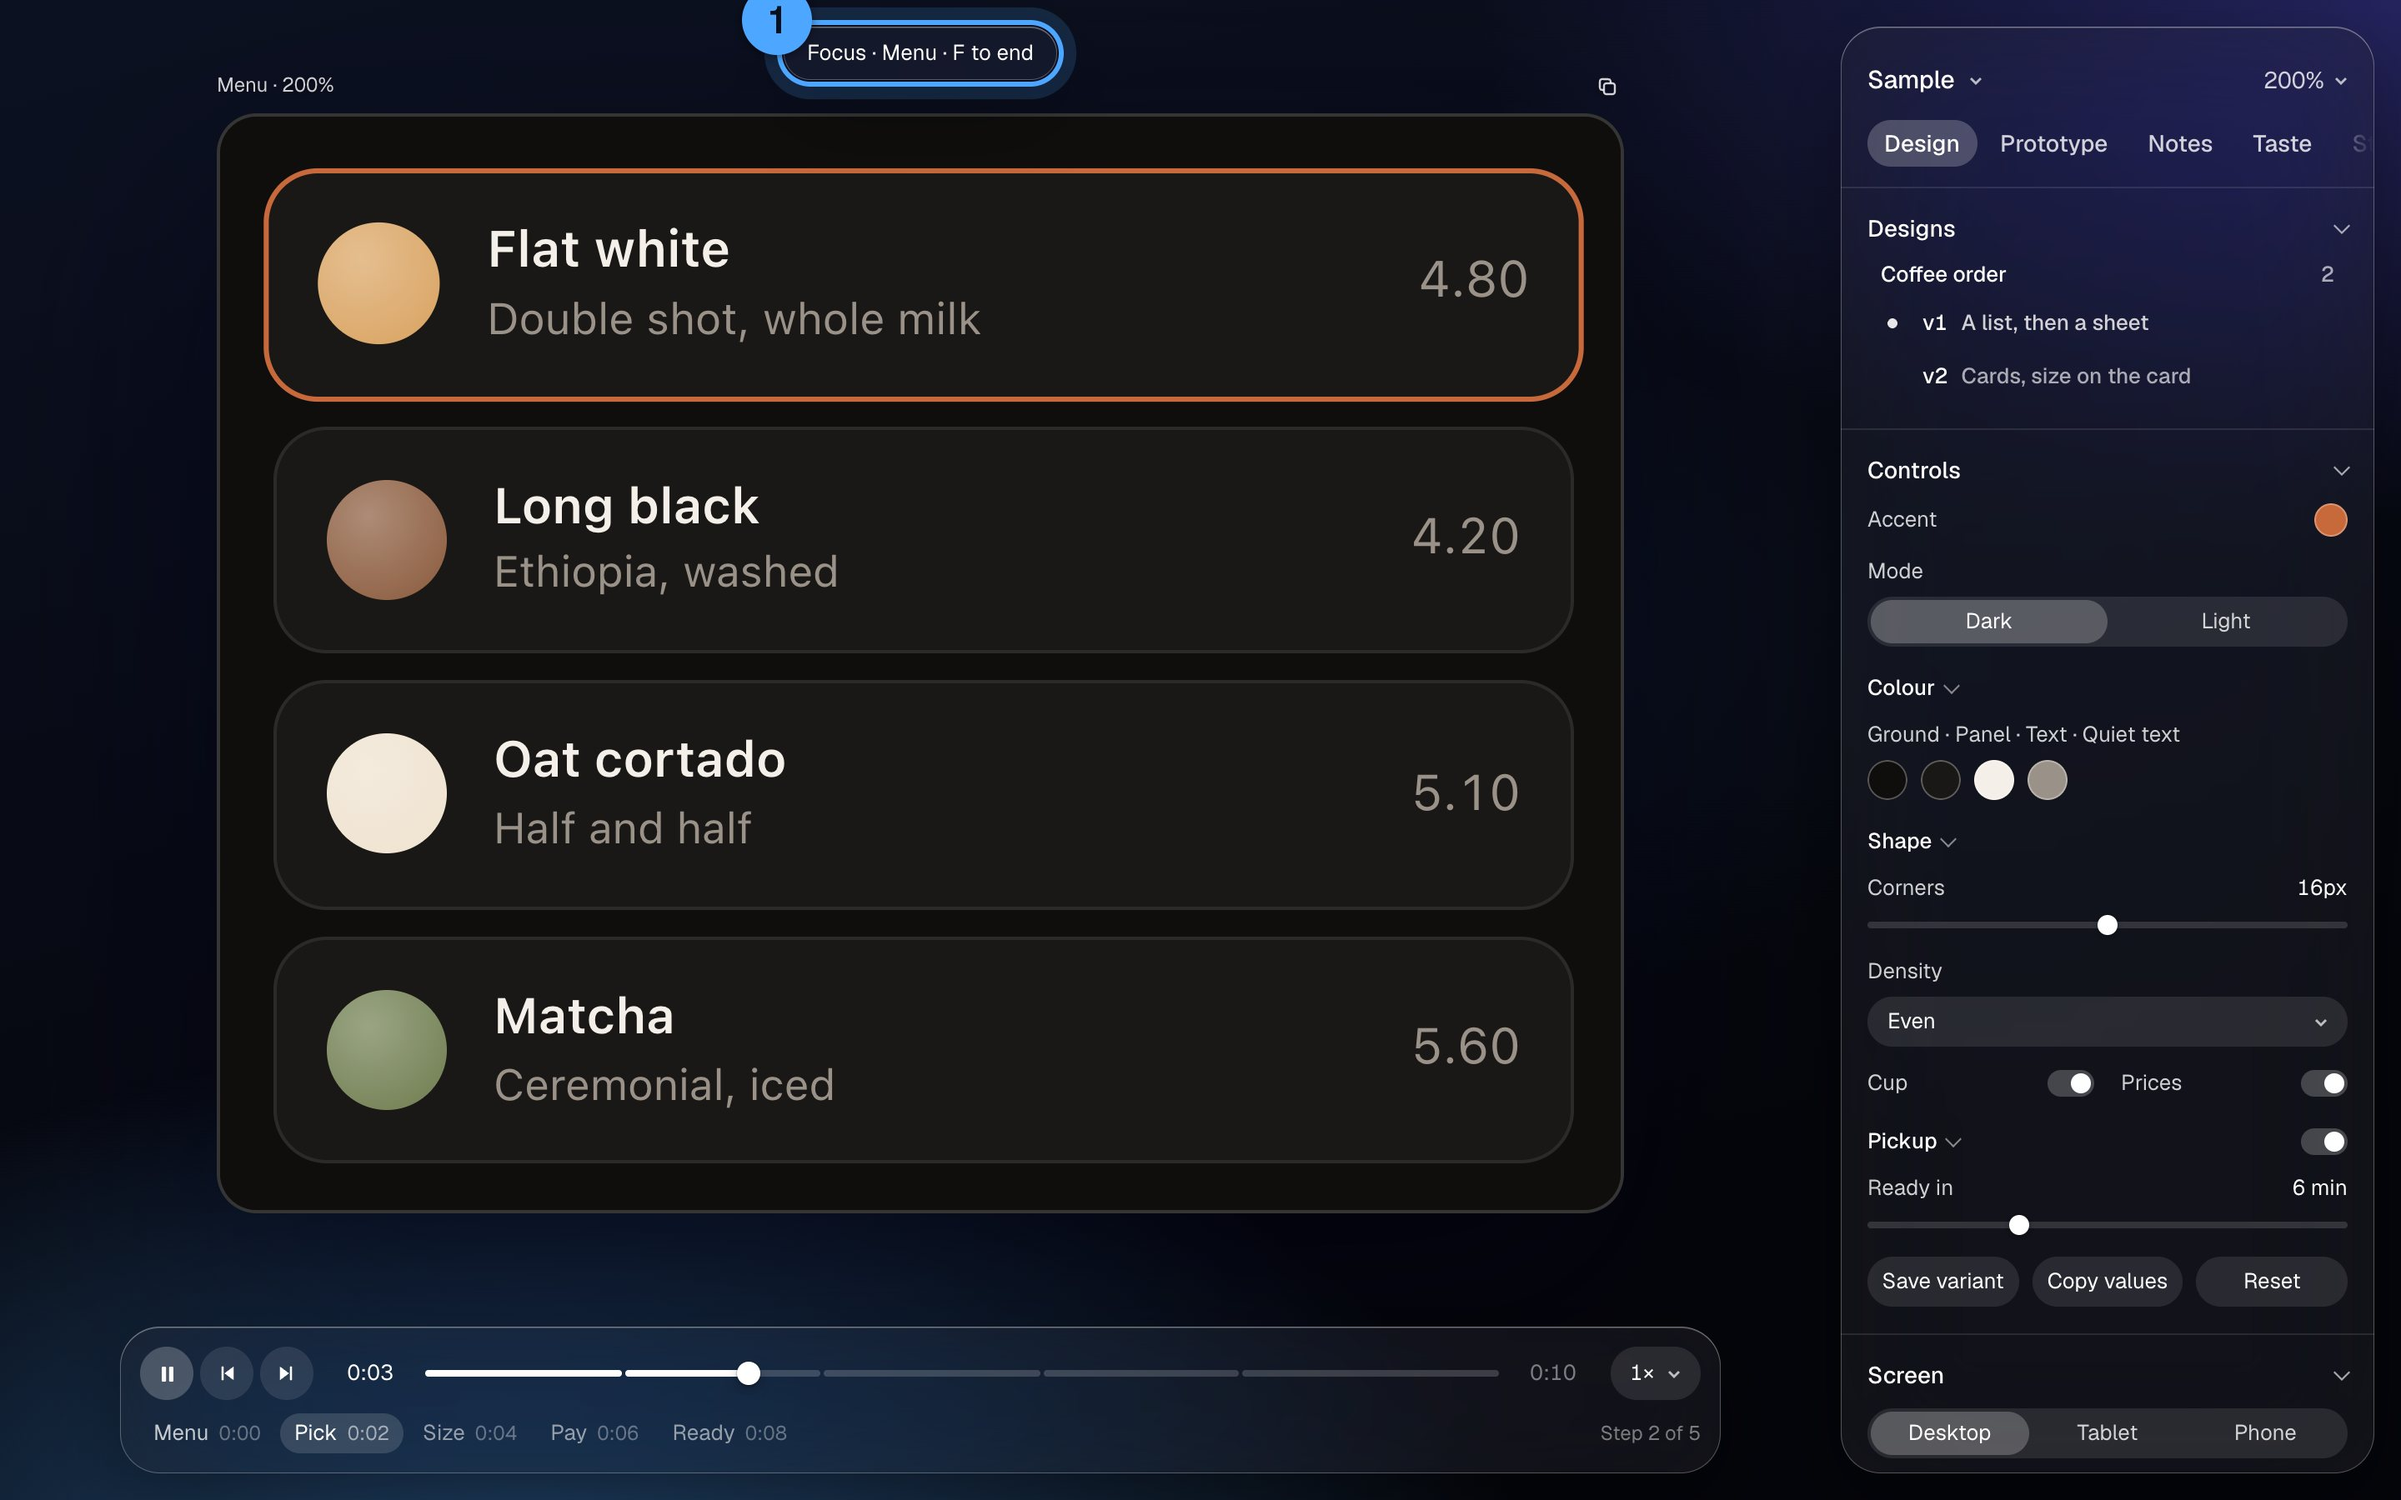
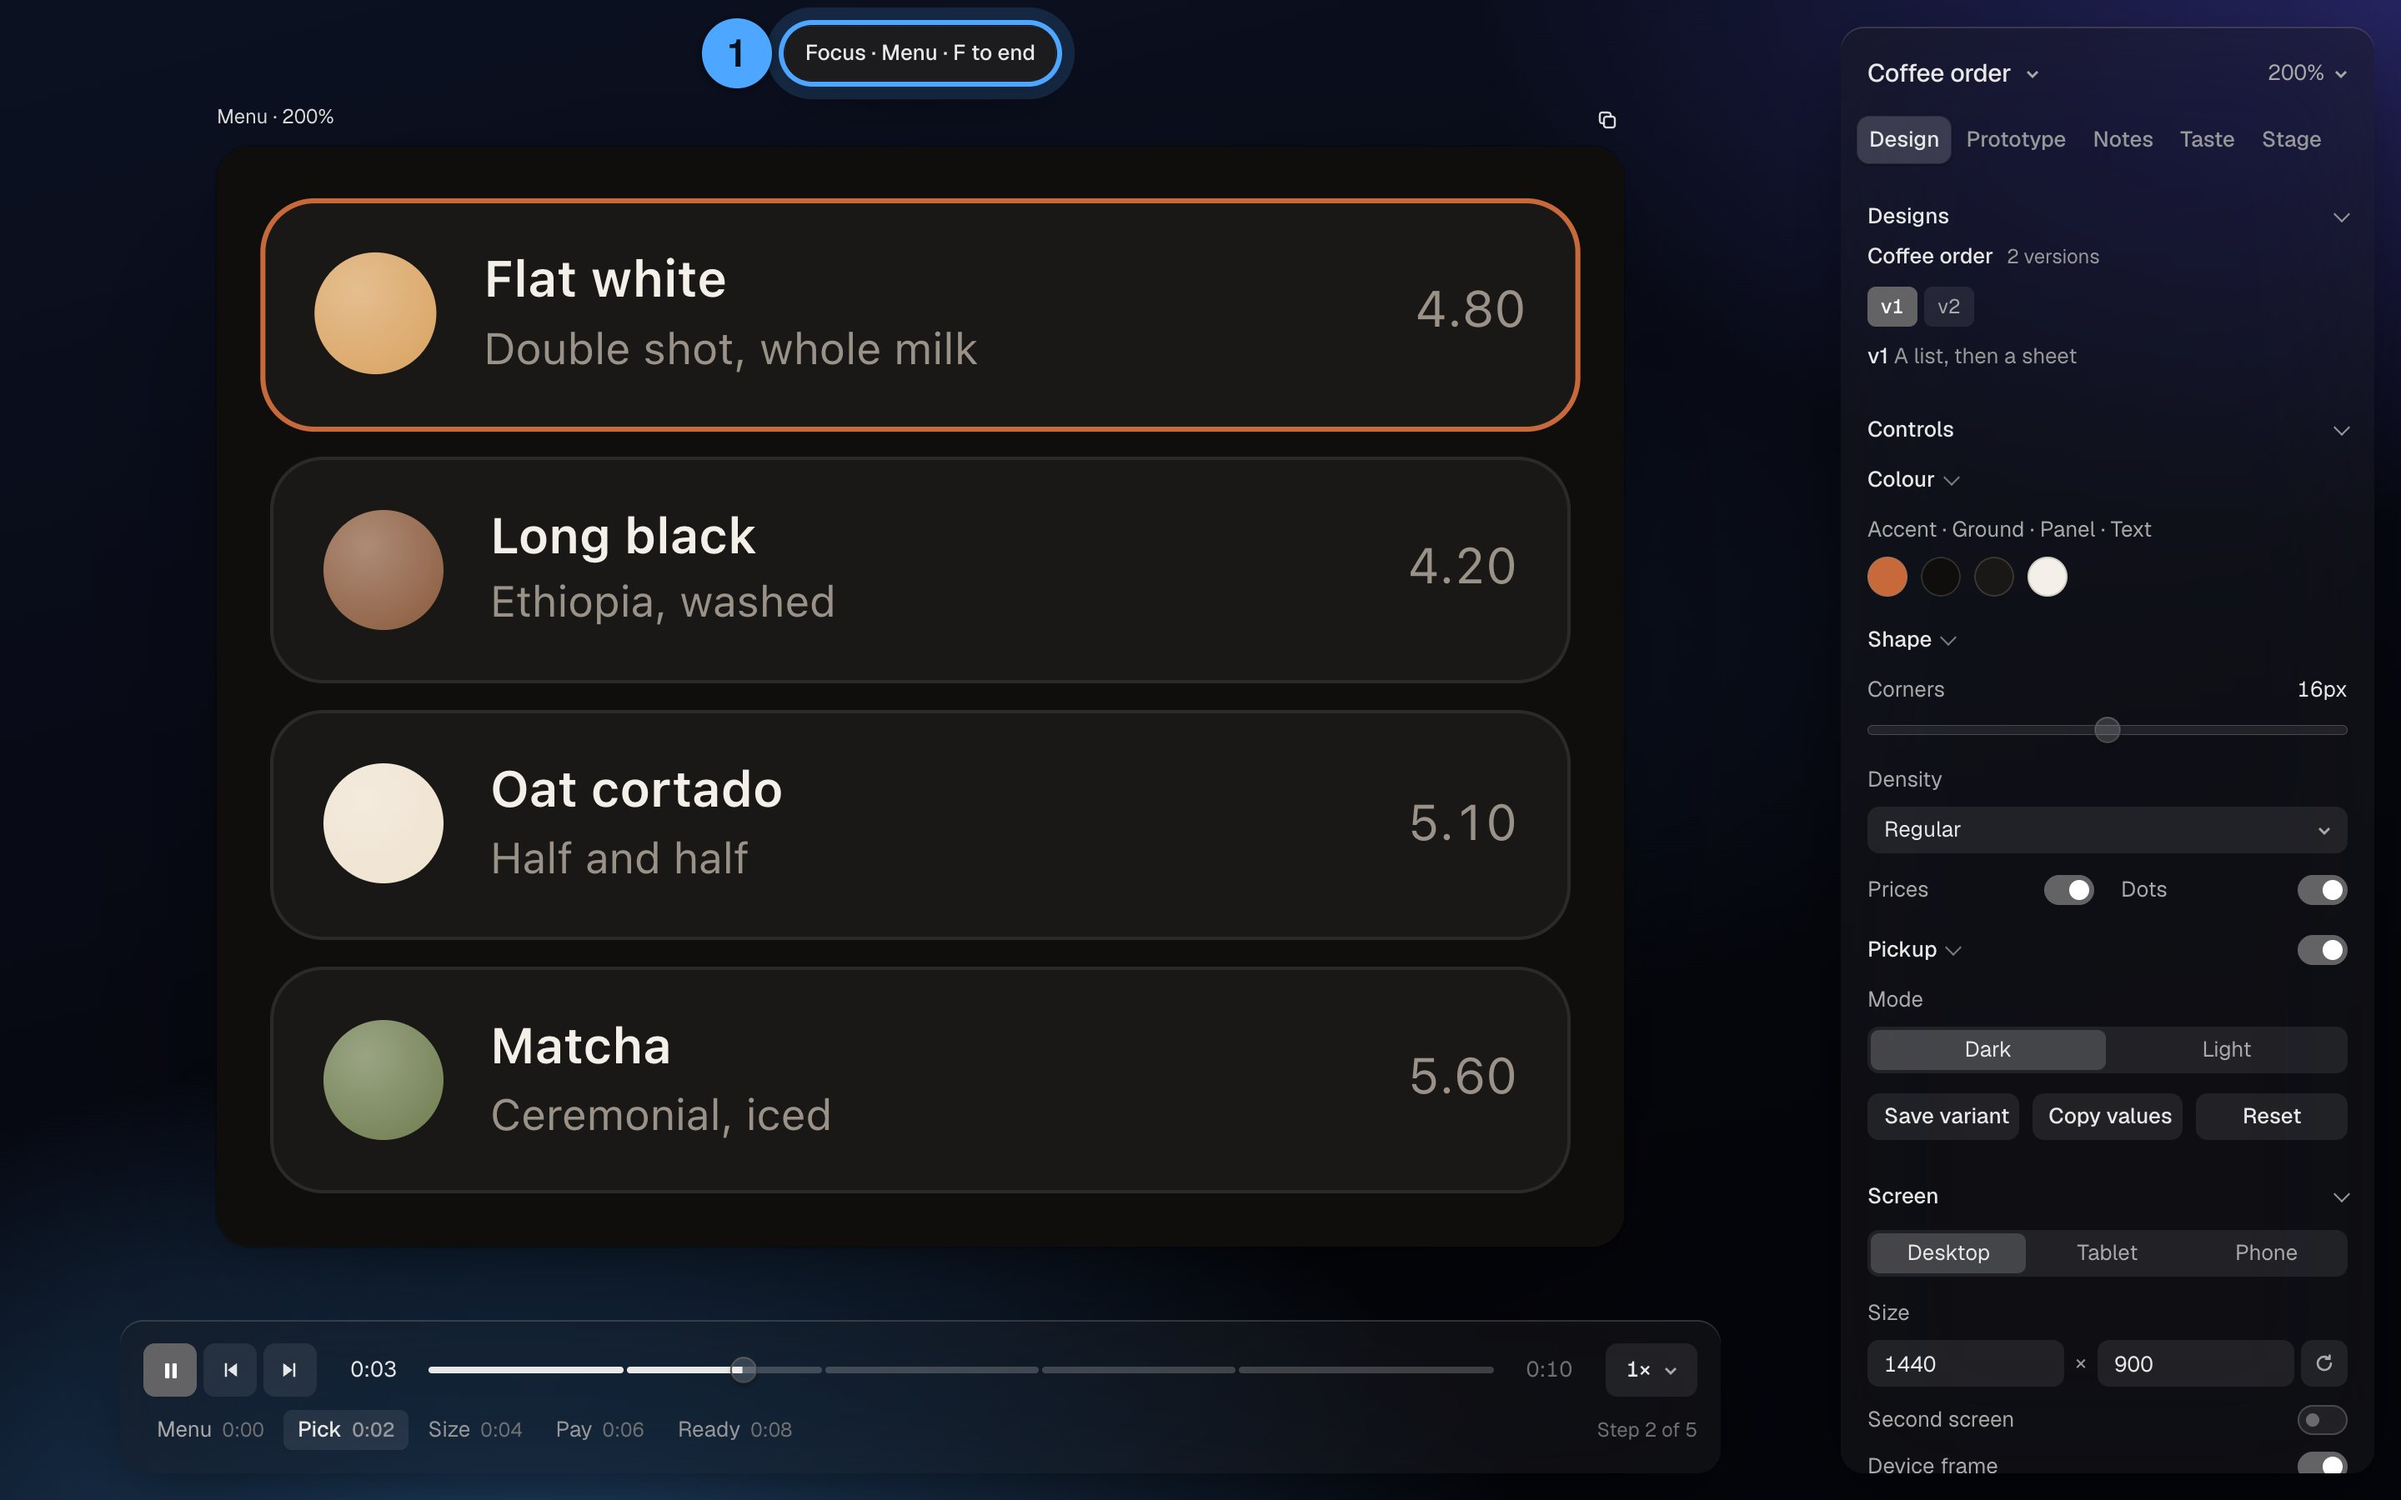
Manual: every picture retaken in the current look; Home, Notes and Compare rewritten to match
Home is the sidebar and Columns with the chosen design running live; Notes is one Annotate mode;
Compare picks versions as chips.

diff --git a/docs/manual.md b/docs/manual.md
@@ -4,14 +4,16 @@ Everything Atelier does, by where it lives. Type `atelier` in any terminal: it o
 
 ## Home
 
-![Home: a client and its projects](img/home.jpg)
+![Home in Columns: a folder, a project and its newest design](img/home.jpg)
 
-1. **The client.** One row per folder next to `atelier/`, with how many projects it has.
-2. **A project.** One card per project, with how many designs it has. Move the pointer across the card to skim its designs, each at its newest version; a click opens the one under the pointer. Versions show on the stage, not here.
-3. **Wallpaper** for every page.
-4. **New project.**
+1. **A folder.** One per folder next to `atelier/`. Click it to see its projects in the next column. The sidebar lists the same folders, under All projects, Recent and Mine.
+2. **A project.** Click it and its newest design is chosen.
+3. **The design**, running live. Click it to open it on the stage.
+4. **Its iterations**, as chips, the one shown in ink. Pick one to see it here. Under the facts, **Open** puts it on the stage and **Remix** copies a brief for your own agent session.
+5. **Grid or Columns.** Grid shows a card per project; Columns keeps the path you took on screen.
+6. **Theme:** Auto, Light or Dark, one setting for home and the stage.
 
-Filter with /, and sort by Recent or Name, once there's more than one project. When Atelier has changed since you last looked, a card at the top says what's new, once; **Got it** puts it away.
+**New project** and **New folder** sit at the top right. Search is at the top of the sidebar. When Atelier has changed since you last looked, a card at the top says what's new, once; **Got it** puts it away.
 
 ## The stage
 
@@ -33,8 +35,8 @@ Drag any edge of a desktop screen to resize it. Scroll on empty canvas to pan.
 
 ![Two versions side by side](img/compare.jpg)
 
-1. **The layer list.** One row per version: the version, then what it is. Click shows one; shift-click (or ⌘-click) adds it beside, up to five. A small dot marks the one on screen. With several on screen, each gets its letter instead, A to E.
-2. **The letter** above each screen matches the circle in the list.
+1. **The designs list.** One item per design: its name, how many versions, the versions as chips, and a line on the one shown. Click a chip to show it; shift-click (or ⌘-click) adds it beside, up to five. With several on screen, each chip gets its letter, A to E.
+2. **The letter** above each screen matches its chip.
 3. **Rows and Columns.** Any two axes as a grid: Versions down × Screen across shows v1 and v2 at desktop and phone at once.
 4. **View**, with exactly two: Side by side, **Swipe** (drag the divider), **Onion** (opacity slider), **Difference** (only changed pixels show).
 
@@ -69,13 +71,12 @@ Press F, then click an element: every screen crops to that part, enlarged, on th
 
 ![Two notes: a pin and an area](img/notes.jpg)
 
-On the screen, a grey numbered dot is a pinned note and a box is an area note. They only show on the step they were left on.
+On the screen, a blue numbered marker is a note, its sharp corner on the spot noted, and a dashed box is an area note. They only show on the step they were left on.
 
-1. **Note** (N): click a screen to pin one, or drag a box to note an area. An area records every element inside and their text. Select words on a screen and press N to note those exact words. The wheel still scrolls the design; hold ⌥ to click or use it without leaving note mode. On a design that frames a live page, the note is on the element in the page.
-2. **Cut** (X): point at an element and click. ↑ ↓ walk to its parent and back. Shift-click several, then Return, to cut them into one note.
-3. **The note.** Click to find its pin. **Open** opens the file at that spot.
-4. **Copy brief** copies every open note as a brief for your own agent session. See No agent inside, below.
-5. **Clear all** deletes every note, after asking.
+1. **Annotate** (N): point at the screen and the element under the pointer is outlined and named. Click to note that element, or drag a box to note an area; an area records every element inside and their text. ↑ ↓ walk to its parent and back. Shift-click several, then Return, for one note. Hold ⌥ to click the design itself. On a design that frames a live page, the note is on the element in the page. Esc or **Done** in the bar at the top ends it.
+2. **The note**, with a picture of what it's on. Click to find its marker. **Open** opens the file at that spot.
+3. **Copy brief** copies every open note as a brief for your own agent session. The bar at the top while annotating has it too, with the count. See No agent inside, below.
+4. **Clear all** deletes every note, after asking.
 
 Click a pin to edit, resolve or delete it; drag a pin to move it and it re-reads what's under it. Notes group into sittings: a gap over half an hour starts a new one. Everything is saved to `<project>/scenes/notes/`.
 
